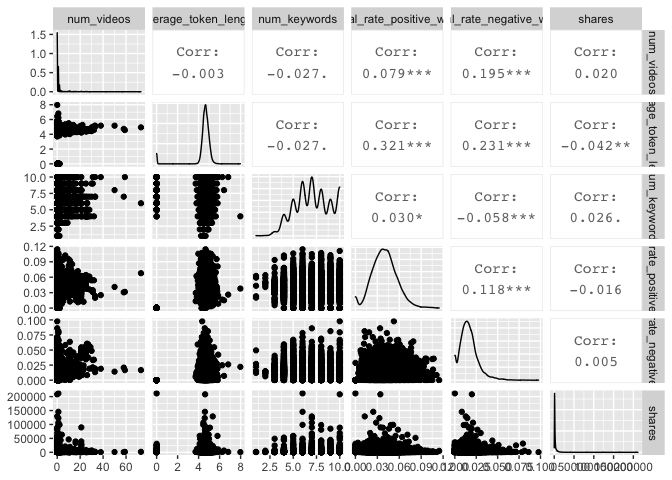
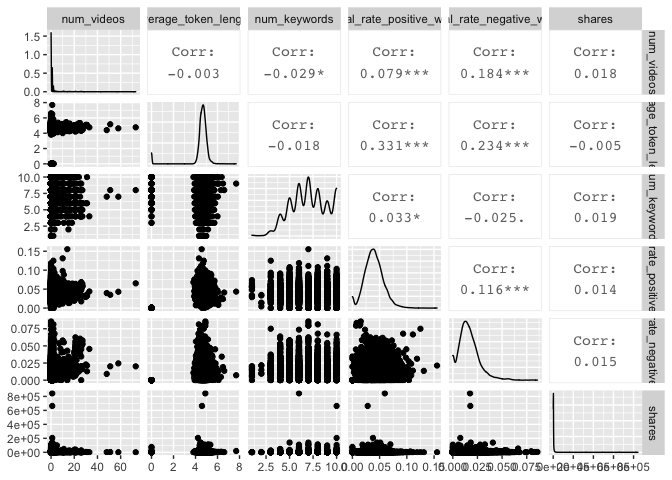
Final update to brief conclusions for each report.

diff --git a/ST-558---Project-2---Heubusch---2.md b/ST-558---Project-2---Heubusch---2.md
@@ -112,8 +112,7 @@ view(newsData)
 ```
 
 ``` r
-newsData <- newsData %>% filter(weekday_is_tuesday==1) #Original filtering for just Monday data.
-#newsData <- filter(newsData, (params$day==1))
+newsData <- newsData %>% filter(weekday_is_sunday==1) #Original filtering for just Monday data.
 ```
 
 Per the project directions, I began by splitting the data, using
@@ -163,7 +162,7 @@ corrplot(newsCorrelation1, type="upper", method="number", tl.pos="lt", number.ce
 corrplot(newsCorrelation1, type="lower", add=TRUE, tl.pos="n", number.cex=0.5)
 ```
 
-![](ST-558---Project-2---Heubusch_files/figure-gfm/Creating%20First%20Correlation%20Plot%20with%20First%2010%20Variables-1.png)<!-- -->
+![](ST-558---Project-2---Heubusch---2_files/figure-gfm/Creating%20First%20Correlation%20Plot%20with%20First%2010%20Variables-1.png)<!-- -->
 
 ## Creating Second Correlation Plot with Other Variables
 
@@ -173,7 +172,7 @@ corrplot(newsCorrelation2, type="upper", method="number", tl.pos="lt", number.ce
 corrplot(newsCorrelation2, type="lower", add=TRUE, tl.pos="n", number.cex=0.5)
 ```
 
-![](ST-558---Project-2---Heubusch_files/figure-gfm/Creating%20Second%20Correlation%20Plot%20with%20Other%20Variables-1.png)<!-- -->
+![](ST-558---Project-2---Heubusch---2_files/figure-gfm/Creating%20Second%20Correlation%20Plot%20with%20Other%20Variables-1.png)<!-- -->
 
 ## Creating Third Correlation Plot
 
@@ -183,7 +182,7 @@ corrplot(newsCorrelation3, type="upper", method="number", tl.pos="lt", number.ce
 corrplot(newsCorrelation3, type="lower", add=TRUE, tl.pos="n", number.cex=0.5)
 ```
 
-![](ST-558---Project-2---Heubusch_files/figure-gfm/Creating%20Third%20Correlation%20Plot-1.png)<!-- -->
+![](ST-558---Project-2---Heubusch---2_files/figure-gfm/Creating%20Third%20Correlation%20Plot-1.png)<!-- -->
 
 ## Creating Fourth Correlation Plot
 
@@ -193,7 +192,7 @@ corrplot(newsCorrelation4, type="upper", method="number", tl.pos="lt", number.ce
 corrplot(newsCorrelation4, type="lower", add=TRUE, tl.pos="n", number.cex=0.5)
 ```
 
-![](ST-558---Project-2---Heubusch_files/figure-gfm/Creating%20Fourth%20Correlation%20Plot-1.png)<!-- -->
+![](ST-558---Project-2---Heubusch---2_files/figure-gfm/Creating%20Fourth%20Correlation%20Plot-1.png)<!-- -->
 
 ## Creating Fifth Correlation Plot
 
@@ -203,7 +202,7 @@ corrplot(newsCorrelation5, type="upper", method="number", tl.pos="lt", number.ce
 corrplot(newsCorrelation5, type="lower", add=TRUE, tl.pos="n", number.cex=0.5)
 ```
 
-![](ST-558---Project-2---Heubusch_files/figure-gfm/Creating%20Fifth%20Correlation%20Plot-1.png)<!-- -->
+![](ST-558---Project-2---Heubusch---2_files/figure-gfm/Creating%20Fifth%20Correlation%20Plot-1.png)<!-- -->
 
 ## Creating Extra Correlation Plot
 
@@ -222,7 +221,7 @@ corrplot(newsCorrelation6, type="upper", method="number", tl.pos="lt", number.ce
 corrplot(newsCorrelation6, type="lower", add=TRUE, tl.pos="n", number.cex=0.5)
 ```
 
-![](ST-558---Project-2---Heubusch_files/figure-gfm/Creating%20Correlation%20Plot%20with%20Only%20Some%20Variables-1.png)<!-- -->
+![](ST-558---Project-2---Heubusch---2_files/figure-gfm/Creating%20Correlation%20Plot%20with%20Only%20Some%20Variables-1.png)<!-- -->
 
 Unfortunately,looking at these six plots, I do not see a substantial
 relationship between any one variable and the target variable of
@@ -249,7 +248,7 @@ channelsBoxplot <- ggplot(newsDataTrain, aes(x=channel, y=shares))
 channelsBoxplot + geom_boxplot()
 ```
 
-![](ST-558---Project-2---Heubusch_files/figure-gfm/Creating%20Boxplot%20of%20Shares,%20by%20Channel-1.png)<!-- -->
+![](ST-558---Project-2---Heubusch---2_files/figure-gfm/Creating%20Boxplot%20of%20Shares,%20by%20Channel-1.png)<!-- -->
 
 ## Creating `ggpairs` Plots
 
@@ -261,13 +260,13 @@ in the sixth correlation plot from above.
 newsDataTrain %>% select("num_keywords", "n_tokens_title","n_tokens_content", "num_hrefs", "num_imgs", "shares") %>% ggpairs()
 ```
 
-![](ST-558---Project-2---Heubusch_files/figure-gfm/ggpairs1-1.png)<!-- -->
+![](ST-558---Project-2---Heubusch---2_files/figure-gfm/ggpairs1-1.png)<!-- -->
 
 ``` r
 newsDataTrain %>% select("num_videos", "average_token_length", "num_keywords", "global_rate_positive_words", "global_rate_negative_words", "shares") %>% ggpairs()
 ```
 
-![](ST-558---Project-2---Heubusch_files/figure-gfm/ggpairs2-1.png)<!-- -->
+![](ST-558---Project-2---Heubusch---2_files/figure-gfm/ggpairs2-1.png)<!-- -->
 
 # Modeling
 
@@ -450,9 +449,9 @@ compareAdjR2results
 ```
 
     ##             fitStat dataFit1 dataFit2 dataFit3 dataFit4 dataFit5 dataFit6
-    ## 1 Adjusted R Square  0.01067  0.01213  0.01213  0.01364   0.0159   0.0182
+    ## 1 Adjusted R Square  0.01142  0.01128  0.01128  0.01136  0.01822  0.02595
     ##   dataFit7 dataFit8 dataFit9 dataFit10 dataFit11 dataFitall
-    ## 1  0.01986  0.02085  0.02118   0.02136   0.02259    0.05078
+    ## 1  0.02862   0.0314  0.03128   0.03123   0.03176    0.05816
 
 ``` r
 compareAIC <- function(df1, df2, df3, df4, df5, df6, df7, df8, df9, df10, df11, dfall) {
@@ -478,9 +477,9 @@ compareAICresults
 ```
 
     ##             fitStat dataFit1 dataFit2 dataFit3 dataFit4 dataFit5 dataFit6
-    ## 1 Adjusted R Square 107504.9 107498.3 107498.3 107491.4 107480.5 107469.4
+    ## 1 Adjusted R Square 38910.81 38912.08 38912.08 38912.92 38900.58 38886.45
     ##   dataFit7 dataFit8 dataFit9 dataFit10 dataFit11 dataFitall
-    ## 1 107461.7 107458.4 107457.7  107457.7  107452.2   107339.6
+    ## 1 38882.18 38878.69 38879.92     38881  38880.95   38864.42
 
 Of all the models: **dataFitAll** has the highest Adjusted R-square
 value(0.05065) and lowest AIC (97682.44).
@@ -518,13 +517,13 @@ dataFitSignif16 <- lm(shares~n_tokens_title +
 summary(dataFitSignif16)$adj.r.square
 ```
 
-    ## [1] 0.03908223
+    ## [1] 0.04551631
 
 ``` r
 AIC(dataFitSignif16)
 ```
 
-    ## [1] 107369.2
+    ## [1] 38858.52
 
 Incorporating these 16 variables into the model reduces the adjusted
 R-square to **0.05102**, a small improvement. It also yielded a better
@@ -553,13 +552,13 @@ dataFitSignif14 <- lm(shares~n_tokens_title +
 summary(dataFitSignif14)$adj.r.square
 ```
 
-    ## [1] 0.03631134
+    ## [1] 0.04417049
 
 ``` r
 AIC(dataFitSignif14)
 ```
 
-    ## [1] 107382.1
+    ## [1] 38859.23
 
 However, even though the result returned indicates that all variables
 are significant at the alpha=0.05 level, this model reduced the Adjusted
@@ -574,7 +573,9 @@ While the fit statistics are one way to determine which model is best,
 options, I decided to use cross-validation, per the HW 9 prediction key
 from Avy. With this approach, which uses 10 folds, I was able to
 calculate the Root Mean Square Error for the two models on the Training
-set.
+set. Root MSE is a measure of the differences between predicted values
+and the actual observed values; when comparing numbers, a lower number
+means a model that’s more effective at prediction.
 
 ``` r
 control <- trainControl(method="cv", number=10)
@@ -582,14 +583,14 @@ fit11Train <- train(as.formula(dataFit11), data=newsDataTrain, method="lm", trCo
 fit11Train$results$RMSE
 ```
 
-    ## [1] 7424.068
+    ## [1] 6172.355
 
 ``` r
 fitSignif16Train <- train(as.formula(dataFitSignif16), data=newsDataTrain, method="lm", trControl=control)
 fitSignif16Train$results$RMSE
 ```
 
-    ## [1] 7529.752
+    ## [1] 5953.987
 
 I then did the same with the Test set.
 
@@ -599,14 +600,14 @@ fit11Test <- train(as.formula(dataFit11), data=newsDataTest, method="lm", trCont
 fit11Test$results$RMSE
 ```
 
-    ## [1] 10145.42
+    ## [1] 5549.987
 
 ``` r
 fitSignif16Test <- train(as.formula(dataFitSignif16), data=newsDataTest, method="lm", trControl=control)
 fitSignif16Test$results$RMSE
 ```
 
-    ## [1] 10570.28
+    ## [1] 5568.9
 
 We see that the model **fitSignif16Test** has a lower RSME for both the
 Training and Test set; therefore, when looking at our linear models, we
@@ -649,7 +650,7 @@ summary(rfNewsDataPred)
 ```
 
     ##    Min. 1st Qu.  Median    Mean 3rd Qu.    Max. 
-    ##     823    1971    2772    3528    4045   51333
+    ##    1136    2581    3562    4020    4834   29172
 
 ``` r
 fit16NewPred <- predict(dataFitSignif16, newdata=newsDataTest)
@@ -657,7 +658,7 @@ summary(fit16NewPred)
 ```
 
     ##    Min. 1st Qu.  Median    Mean 3rd Qu.    Max. 
-    ##  -879.4  2061.8  2854.5  3120.2  3918.3 12158.5
+    ##   598.5  2742.0  3557.9  3766.9  4540.0 11207.7
 
 ## Comparing Two Models on Test Data Set
 
@@ -671,14 +672,14 @@ rfRMSE <- sqrt(mean((rfNewsDataPred-newsDataTest$shares)^2))
 rfRMSE
 ```
 
-    ## [1] 13324.2
+    ## [1] 6119.516
 
 ``` r
 datafit16RMSE <- sqrt(mean((fit16NewPred-newsDataTest$shares)^2))
 datafit16RMSE
 ```
 
-    ## [1] 13094.88
+    ## [1] 6056.581
 
 Both models have a very similar RMSE. A lower RSME is preferred; in this
 case, the linear regression model - **dataFit16** - is considered a

diff --git a/README.md b/README.md
@@ -2,16 +2,74 @@ Project 2 - Trial & Error
 ================
 July 3, 2020
 
+# CONCLUSIONS
+
+## Monday
+
+I calculated the mean of the predictions for both the linear and
+ensemble models. The **rfNewsDataPred** random forest (ensemble) model
+estimated that the mean number of shares for an article published on a
+Monday would be approximately 4,082; the **fit16NewPred** multiple
+linear regression model estimated that the mean would be approximately
+3,514.
+
 The analysis for Monday is [available here](Monday.md).
+
+## Tuesday
+
+The **rfNewsDataPred** model predicted that the mean number of shares
+for an article published on a Tuesday would be 3,528; the
+**fit16NewPred** model predicted that the mean number of shares would be
+approximately 3,120.
 
 The analysis for Tuesday is [available here](Tuesday.md).
 
+## Wednesday
+
+The **rfNewsDataPred** model predicted that the mean number of shares
+for an article published on a Wednesday would be approximately 3,843;
+the **fit16NewPred** model predicted that the mean number of shares
+would be 3,336. The RMSE for the linear model (8215.138) is lower than
+that of the random forest model (8567.245).
+
 The analysis for Wednesday is [available here](Wednesday.md).
+
+## Thursday
+
+The **rfNewsDataPred** model predicted that the mean number of shares
+for an article published on a Thursday would be approximately 3,462; the
+**fit16NewPred** model predicted that the mean number of shares would be
+3,126. The RMSE for the linear model (10220.05) is lower than that of
+the random forest model (10236.14).
 
 The analysis for Thursday is [available here](Thursday.md).
 
+## Friday
+
+The **rfNewsDataPred** model predicted that the mean number of shares
+for an article published on a Friday would be approximately 3,462; the
+**fit16NewPred** model predicted that the mean number of shares would be
+3,126. The RMSE for the linear model (10220.05) is lower than that of
+the random forest model (10236.14).
+
 The analysis for Friday is [available here](Friday.md).
 
+## Saturday
+
+The **rfNewsDataPred** model predicted that the mean number of shares
+for an article published on a Saturday would be 3,747; the
+**fit16NewPred** model predicted that the mean number of shares would be
+approximately 3,268. The RMSE for the linear model (8874.317) is lower
+than that of the random forest model (8949.476).
+
 The analysis for Saturday is [available here](Saturday.md).
+
+## Sunday
+
+The **rfNewsDataPred** model predicted that the mean number of shares
+for an article published on a Saturday would be 4,020; the
+**fit16NewPred** model predicted that the mean number of shares would be
+approximately 3767. The RMSE for the linear model (6056.581) is lower
+than that of the random forest model (6119.516).
 
 The analysis for Sunday is [available here](Sunday.md).
